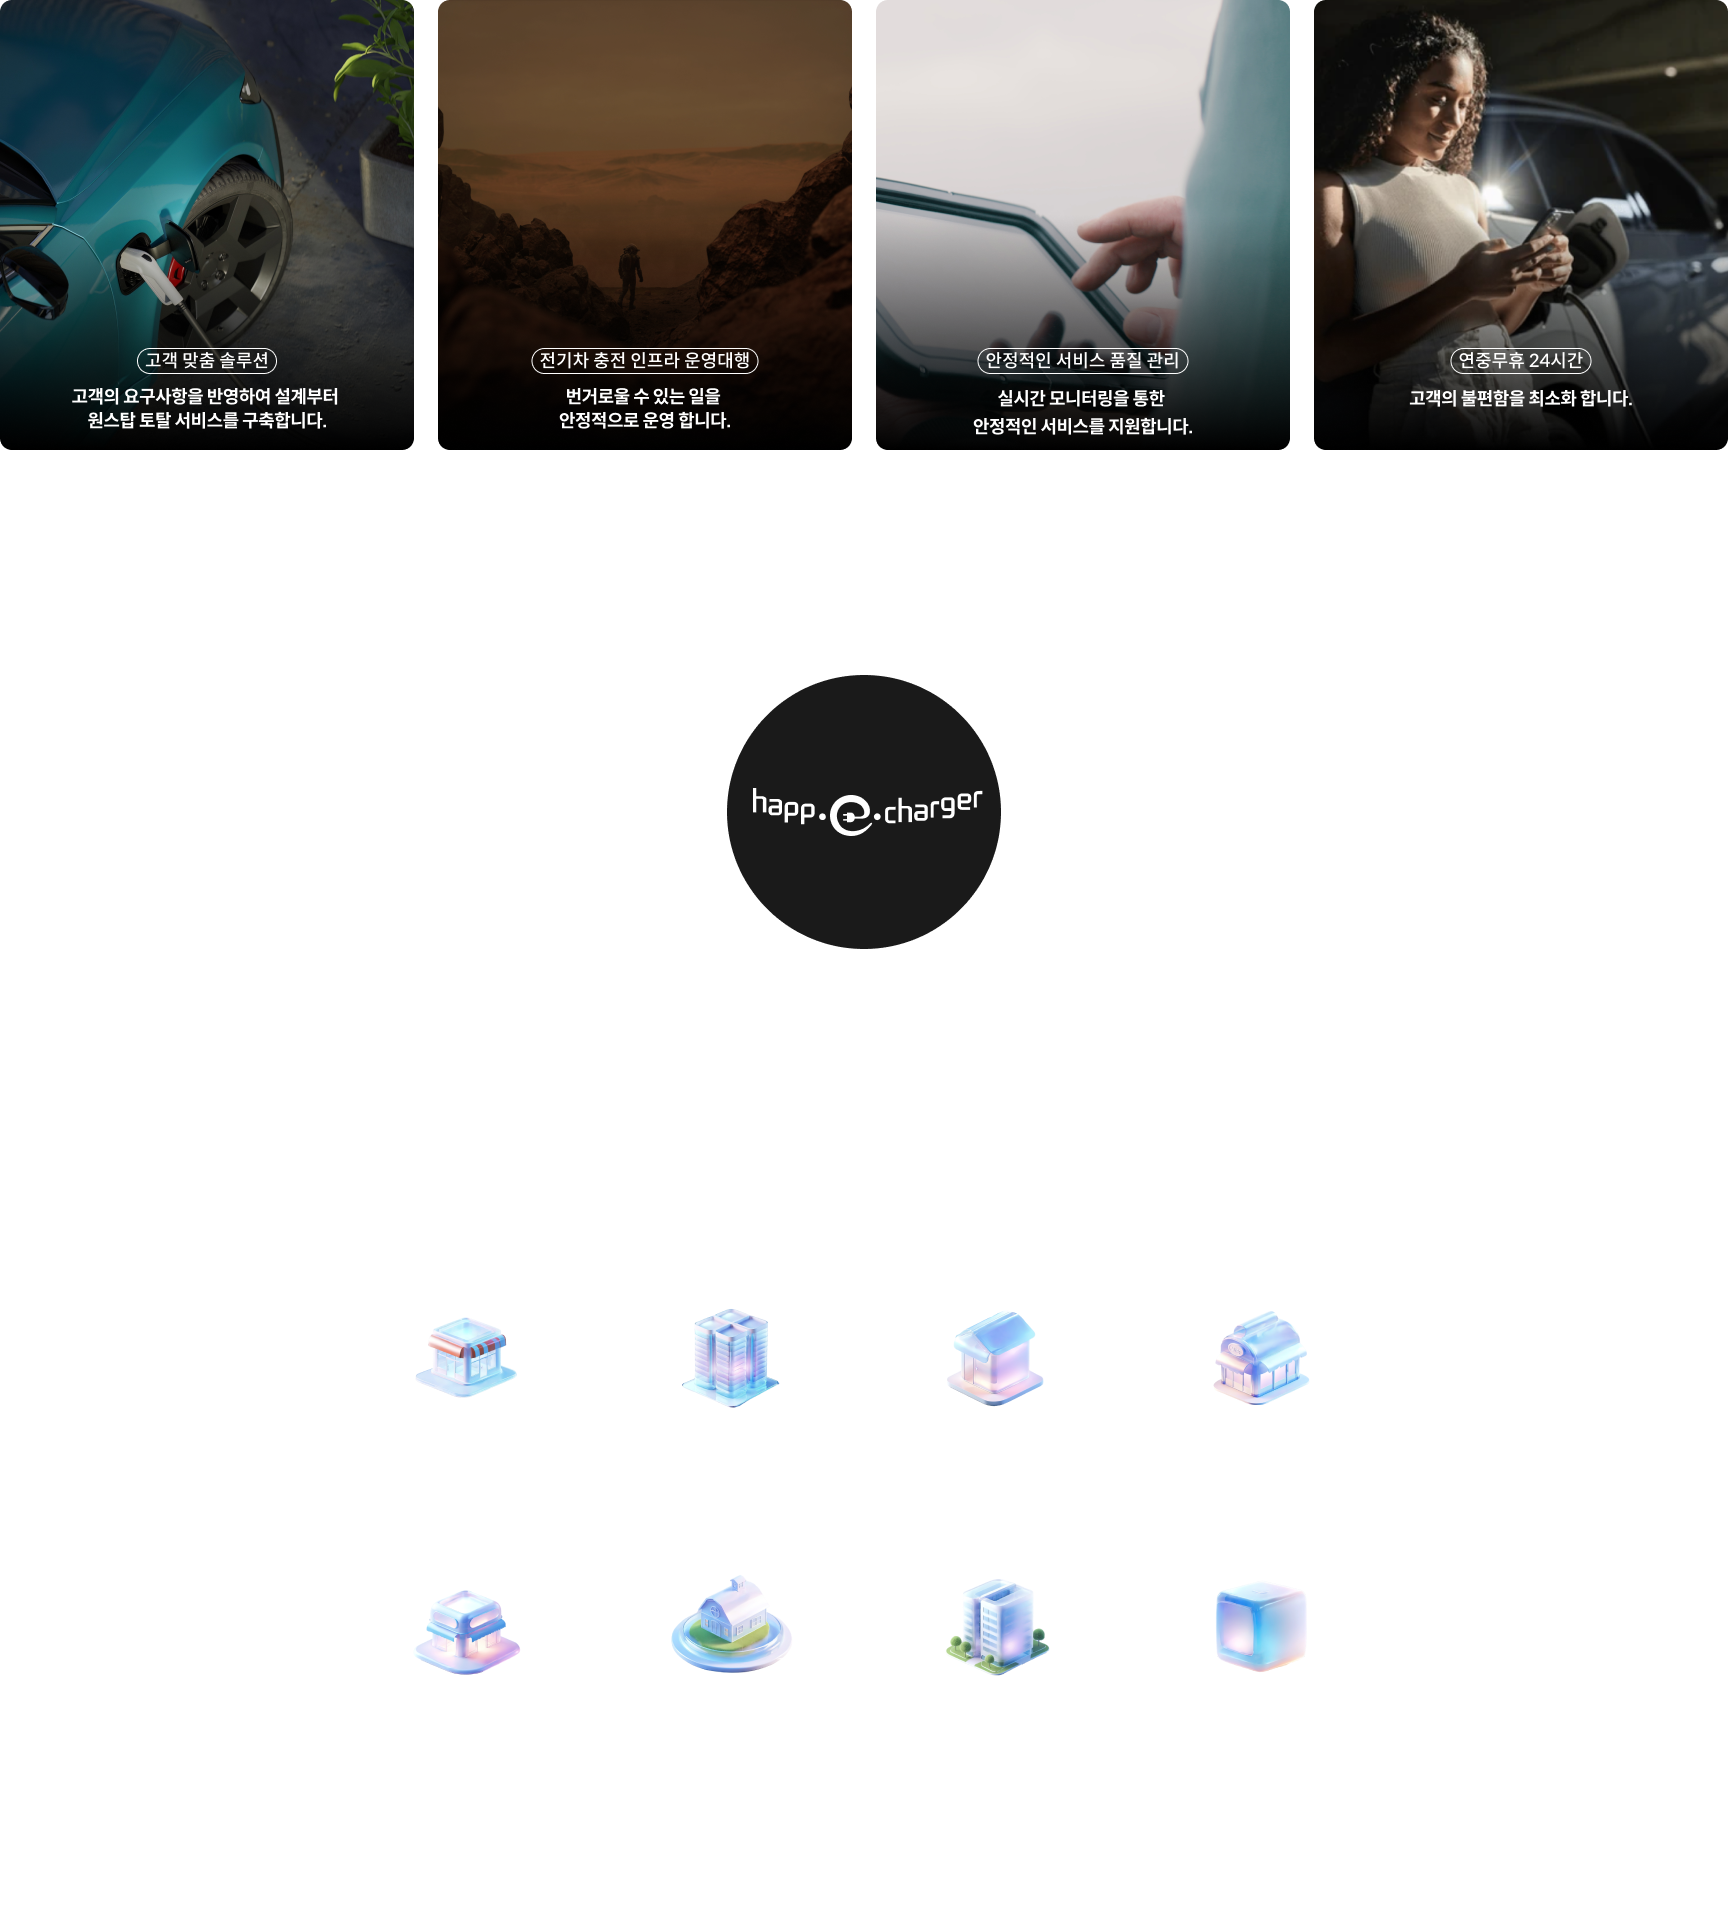
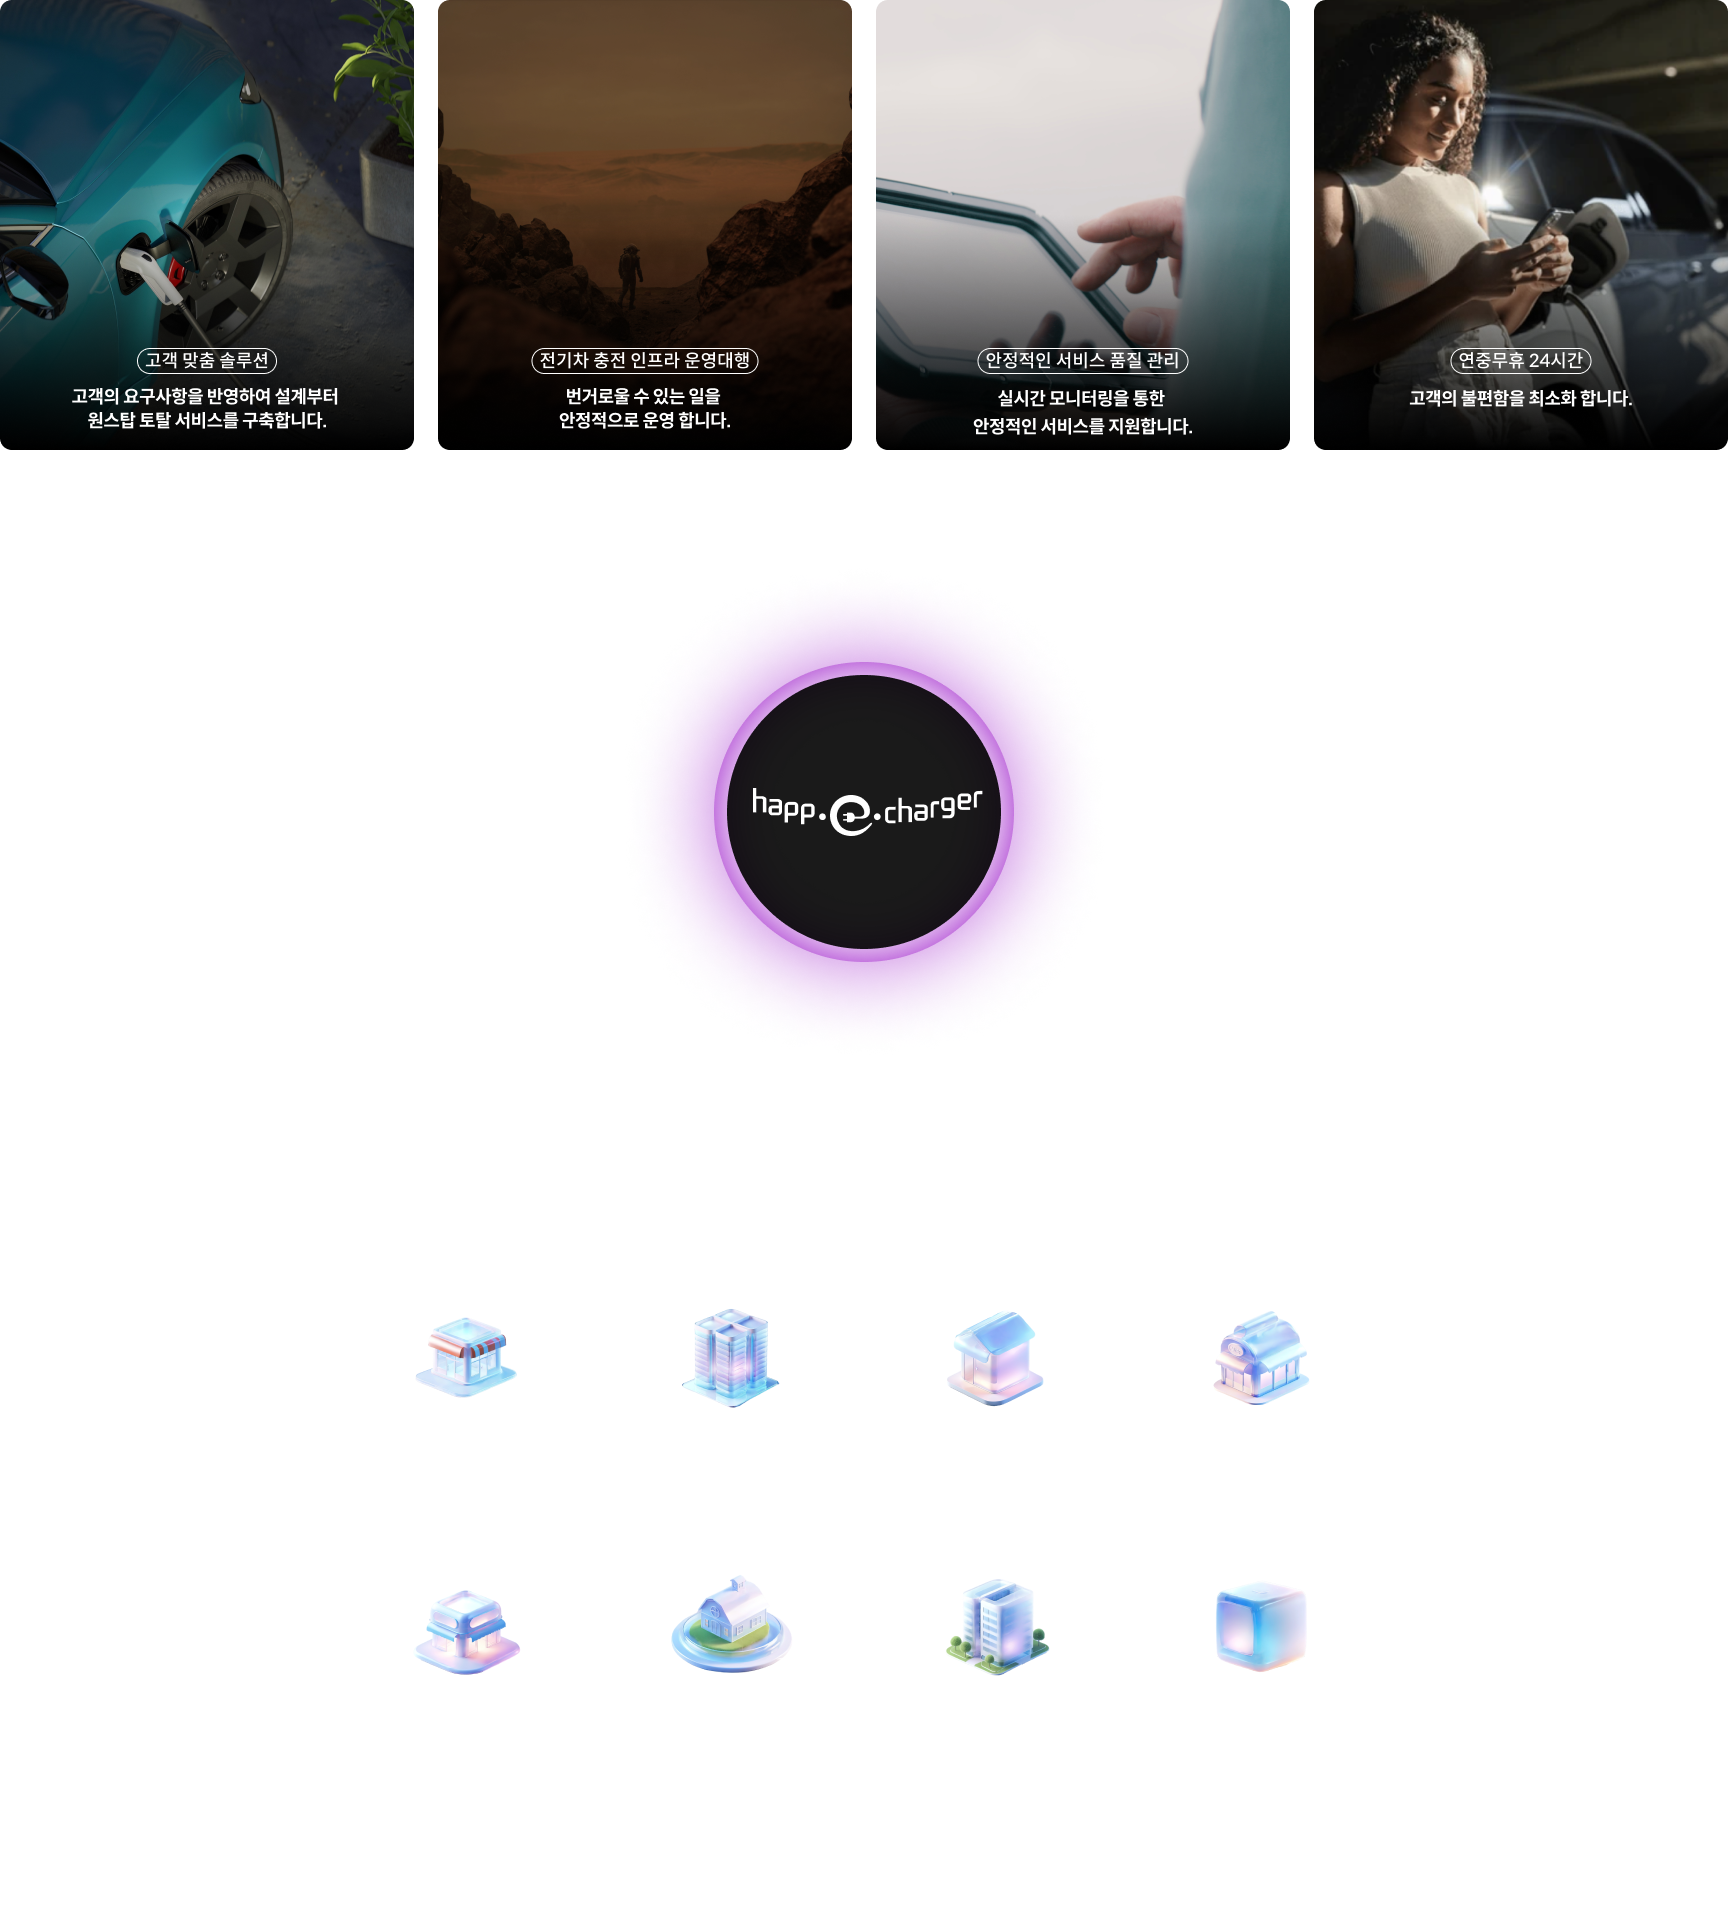
.

Changed region(s): [[0.375, 0.3106, 0.625, 0.528]]

diff --git a/happecharger/A_index.html b/happecharger/A_index.html
@@ -270,13 +270,13 @@
   <script src="static/js/front.js"></script>
 
   <script>
-    var animation = lottie.loadAnimation({
-      container: document.getElementById('lottie-animation'), // 애니메이션이 적용될 요소
-      renderer: 'svg', // 렌더러 설정 (svg, canvas, html)
-      loop: true, // 루프 설정
-      autoplay: true, // 자동 재생 설정
-      path: 'static/json/pc_1.json' // 애니메이션 JSON 파일 경로
-    });
+    // var animation = lottie.loadAnimation({
+    //   container: document.getElementById('lottie-animation'), // 애니메이션이 적용될 요소
+    //   renderer: 'svg', // 렌더러 설정 (svg, canvas, html)
+    //   loop: true, // 루프 설정
+    //   autoplay: true, // 자동 재생 설정
+    //   path: 'static/json/pc_1.json' // 애니메이션 JSON 파일 경로
+    // });
   </script>
 
 </body>
